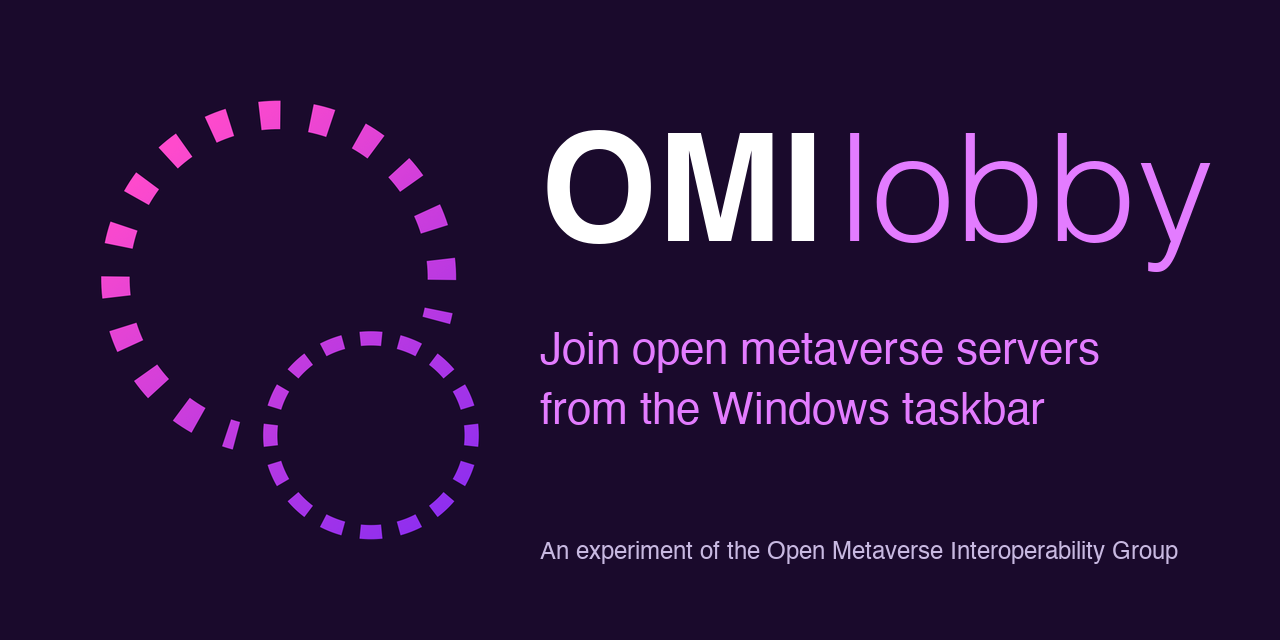
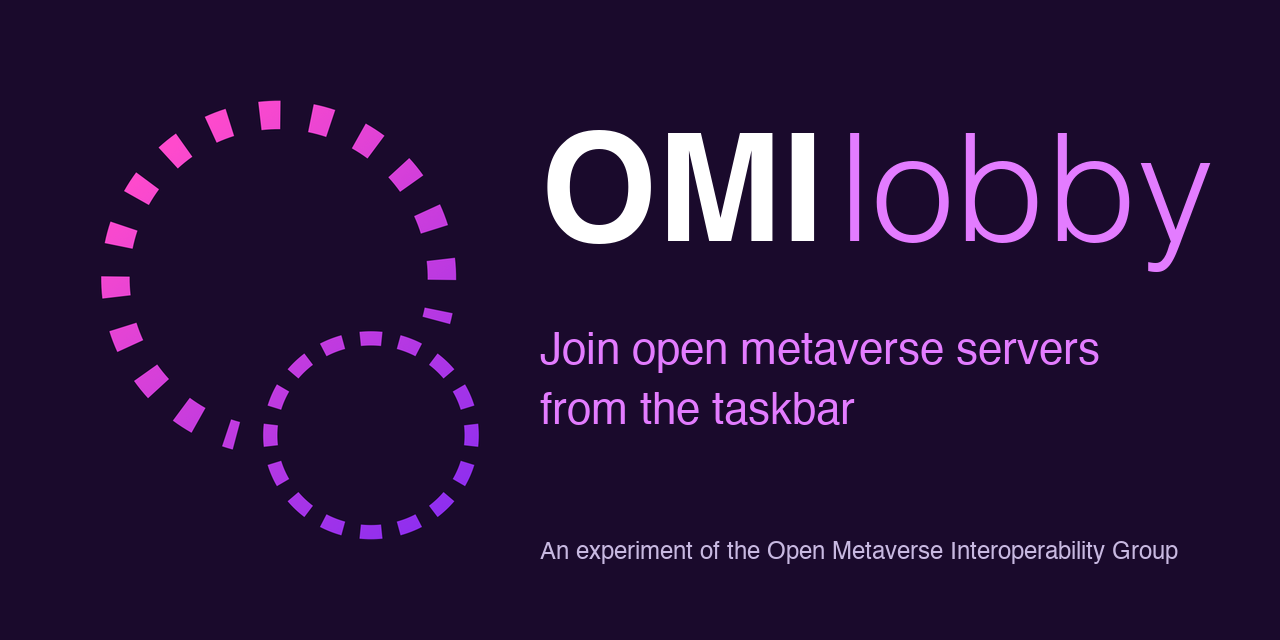
Take the Windows trademark out of the tray README, download name and share image

Changed region(s): [[0.5312, 0.5938, 0.8125, 0.6875]]

diff --git a/README.md b/README.md
@@ -4,7 +4,7 @@
 
 **Join an Overte or Basis server from the taskbar.**
 
-Who is online, and where do you go? A Windows tray icon that lists the servers on an OMI Lobby, so you can join an Overte domain or a Basis server from the taskbar. It is the desktop companion to [service-omi-lobby](https://github.com/V-Sekai-fire/service-omi-lobby).
+Who is online, and where do you go? A tray icon that lists the servers on an OMI Lobby, so you can join an Overte domain or a Basis server from the taskbar. It is the desktop companion to [service-omi-lobby](https://github.com/V-Sekai-fire/service-omi-lobby).
 
 ## What it does
 
@@ -20,7 +20,7 @@ When a refresh fails, the menu keeps the last list and the status line says why.
 
 ## Try it
 
-Unzip `omi-lobby-tray-windows-x64.zip` anywhere and run `omi-lobby-tray.exe`. Pick a server from the tray menu.
+Unzip `omi-lobby-tray-x64.zip` anywhere and run `omi-lobby-tray.exe`. Pick a server from the tray menu.
 
 ## Which lobby
 
@@ -40,7 +40,7 @@ ctest --test-dir build -C Release
 
 CMake fetches SDL3 (release-3.4.8, the tray library XR Pilot uses) and links it statically, so the program is one file plus `resources/`. `-DOMI_LOBBY_TRAY_APP=OFF` builds only the list logic and its tests, with no SDL. On Windows the tray fetches with WinHTTP; other systems, used for development only, run `curl`.
 
-CI builds on Windows, runs the tests and keeps `omi-lobby-tray-windows-x64.zip` as an artifact of every run; a `v*` tag attaches it to the release.
+CI builds the program, runs the tests and keeps `omi-lobby-tray-x64.zip` as an artifact of every run; a `v*` tag attaches it to the release.
 
 ## Where it comes from
 
